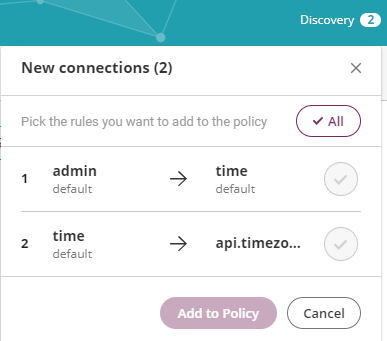
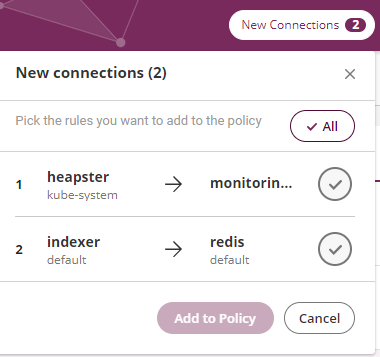
name change from discovery
New connections name change from discovery

diff --git a/Content/TopicsFeatures/Discovery.htm b/Content/TopicsFeatures/Discovery.htm
@@ -5,22 +5,17 @@
     <body>
         <h1>Discovery</h1>
         <MadCap:snippetBlock src="WhatIs_Discovery.flsnp" />
-        <p>The Discovery engine is always active, and runs independently of the mode setting (i.e. learn or enforce). The color of the discovery button changes, depending on the Learning Mode setting. </p>
+        <p>The discovery engine is always active, and runs independently of the mode setting (i.e. learn or enforce). </p>
         <h2>What can I do?</h2>
         <ul class="Action">
             <li>
-                <p>View the New Connections list - Click <span class="Bold">Discovery</span> to display the New Connections list.</p>
-                <p>
-                    <img src="../Resources/Images/ButtonDiscoveryBlue.png" />
-                </p>
+                <p>View the <span class="ScreenObject">New Connections</span> list</p>
             </li>
             <li>
-                <p>Add a rule to the Policy - Select one or more rules in the Connections List and click <span class="Bold">Add to Policy</span>.</p>
-                <p>
-                    <img src="../Resources/Images/ButtonAddToPolicy.png" class="ThumbnailPopup" />.</p>
+                <p>Add a rule to the Policy - Select one or more rules in the <span class="ScreenObject">New Connections List</span> and click <span class="ScreenObject">Add to Policy</span>.</p>
             </li>
         </ul>
         <h2>How do I get here?</h2>
-        <p>From the top toolbar, click <img src="../Resources/Images/ButtonDiscoveryPurple.png" /> (if Learning Mode is enabled, click <img src="../Resources/Images/ButtonDiscoveryBlue.png" />) .</p>
+        <p>From most screens, click <span class="Bold">on <span class="ScreenObject">New Connections</span></span></p>
     </body>
 </html>
